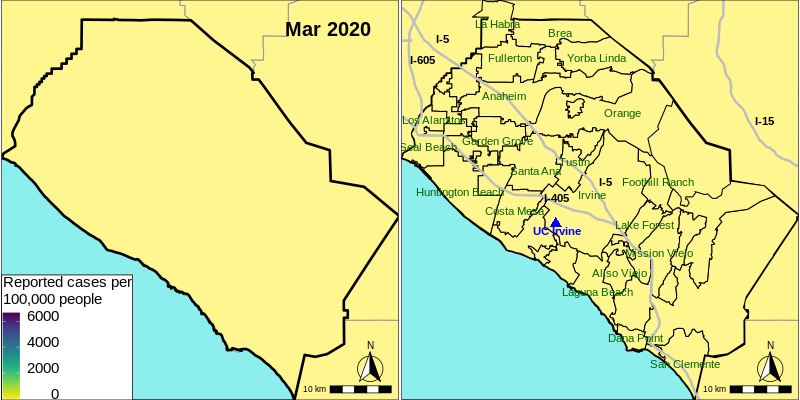
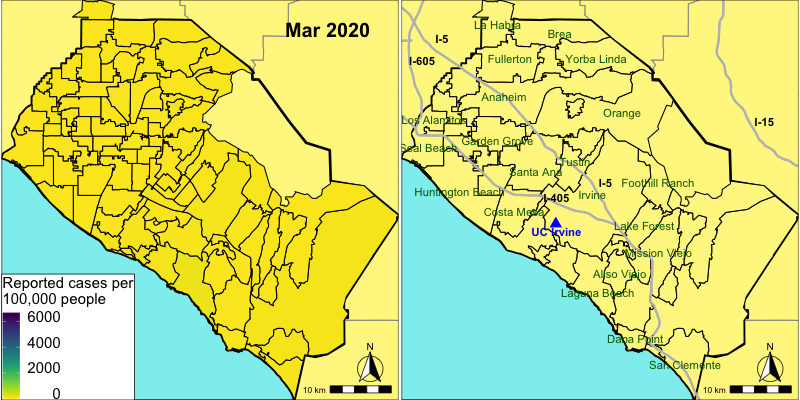
updated faulty map images

diff --git a/docs/incidence-maps.html b/docs/incidence-maps.html
@@ -502,16 +502,16 @@ This reproducible <a href="http://rmarkdown.rstudio.com">R Markdown</a> analysis
 <div class="panel panel-default">
 <div class="panel-heading">
 <p class="panel-title">
-<a data-toggle="collapse" data-parent="#workflowr-checks" href="#strongRepositoryversionstrongahrefhttpsgithubcomdamonbayerucicovid19dashboardtreebe951bba59ef198a1a0b6fcee80b7292e01e7c5btargetblankbe951bba"> <span class="glyphicon glyphicon-ok text-success" aria-hidden="true"></span> <strong>Repository version:</strong> <a href="https://github.com/damonbayer/uci_covid19_dashboard/tree/be951bba59ef198a1a0b6fcee80b7292e01e7c5b" target="_blank">be951bb</a> </a>
+<a data-toggle="collapse" data-parent="#workflowr-checks" href="#strongRepositoryversionstrongahrefhttpsgithubcomdamonbayerucicovid19dashboardtreeb9dcf1dea0ce84b0f4c549acf4b0e342499b7320targetblankb9dcf1da"> <span class="glyphicon glyphicon-ok text-success" aria-hidden="true"></span> <strong>Repository version:</strong> <a href="https://github.com/damonbayer/uci_covid19_dashboard/tree/b9dcf1dea0ce84b0f4c549acf4b0e342499b7320" target="_blank">b9dcf1d</a> </a>
 </p>
 </div>
[2 lines of base64/hex data omitted]
 <div class="panel-body">
 <p>
 Great! You are using Git for version control. Tracking code development and connecting the code version to the results is critical for reproducibility.
 </p>
 <p>
-The results in this page were generated with repository version <a href="https://github.com/damonbayer/uci_covid19_dashboard/tree/be951bba59ef198a1a0b6fcee80b7292e01e7c5b" target="_blank">be951bb</a>. See the <em>Past versions</em> tab to see a history of the changes made to the R Markdown and HTML files.
+The results in this page were generated with repository version <a href="https://github.com/damonbayer/uci_covid19_dashboard/tree/b9dcf1dea0ce84b0f4c549acf4b0e342499b7320" target="_blank">b9dcf1d</a>. See the <em>Past versions</em> tab to see a history of the changes made to the R Markdown and HTML files.
 </p>
 <p>
 Note that you need to be careful to ensure that all relevant files for the analysis have been committed to Git prior to generating the results (you can use <code>wflow_publish</code> or <code>wflow_git_commit</code>). workflowr only checks the R Markdown file, but you know if there are other scripts or data files that it depends on. Below is the status of the Git repository when the results were generated:
@@ -524,13 +524,6 @@ Ignored files:
 Untracked files:
     Untracked:  Rplot.png
     Untracked:  oc_positivity.png
-
-Unstaged changes:
-    Modified:   data/cases_map_data.csv
-    Modified:   data/max_date_in_map_data.txt
-    Modified:   data/oc_city_data.csv
-    Modified:   data/pos_map_data.csv
-    Modified:   data/tests_map_data.csv
 
 </code></pre>
 <p>
@@ -569,6 +562,23 @@ Message
 </tr>
 </thead>
 <tbody>
+<tr>
+<td>
+html
+</td>
+<td>
+<a href="https://rawcdn.githack.com/damonbayer/uci_covid19_dashboard/2744dffcbea65037db562b9ec2d3d6da19ac4f5b/docs/incidence-maps.html" target="_blank">2744dff</a>
+</td>
+<td>
+vnminin
+</td>
+<td>
+2021-09-07
+</td>
+<td>
+Sep 7 2021 update
+</td>
+</tr>
 <tr>
 <td>
 html
